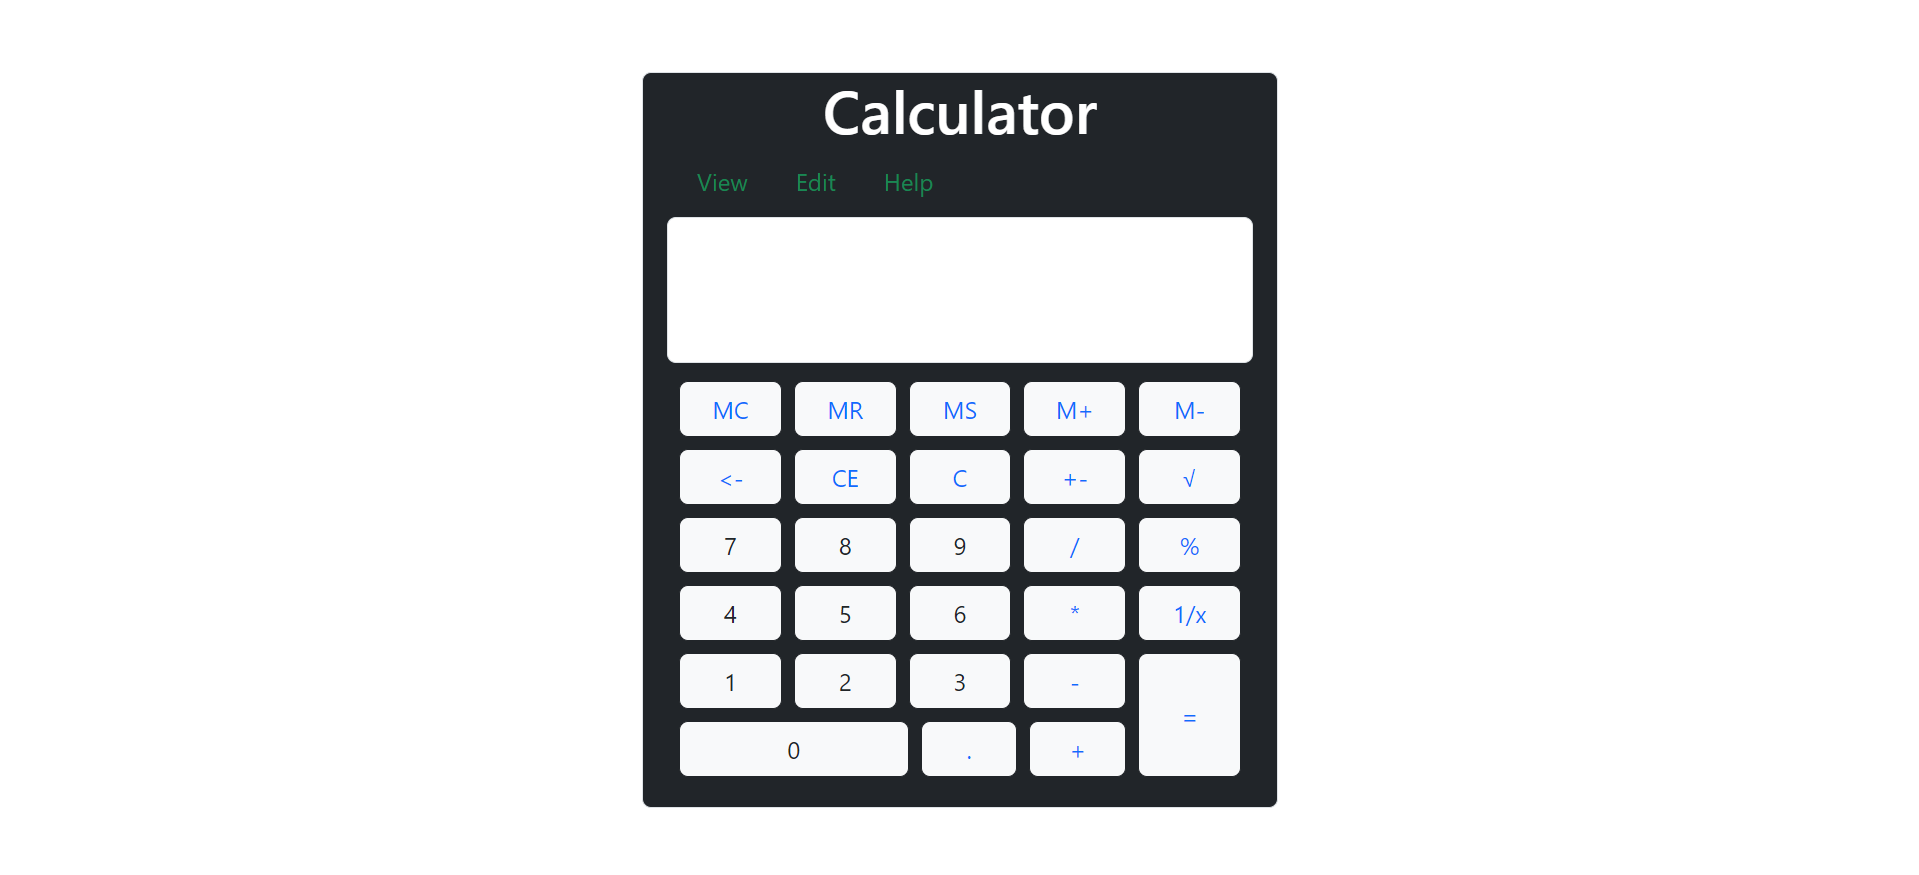
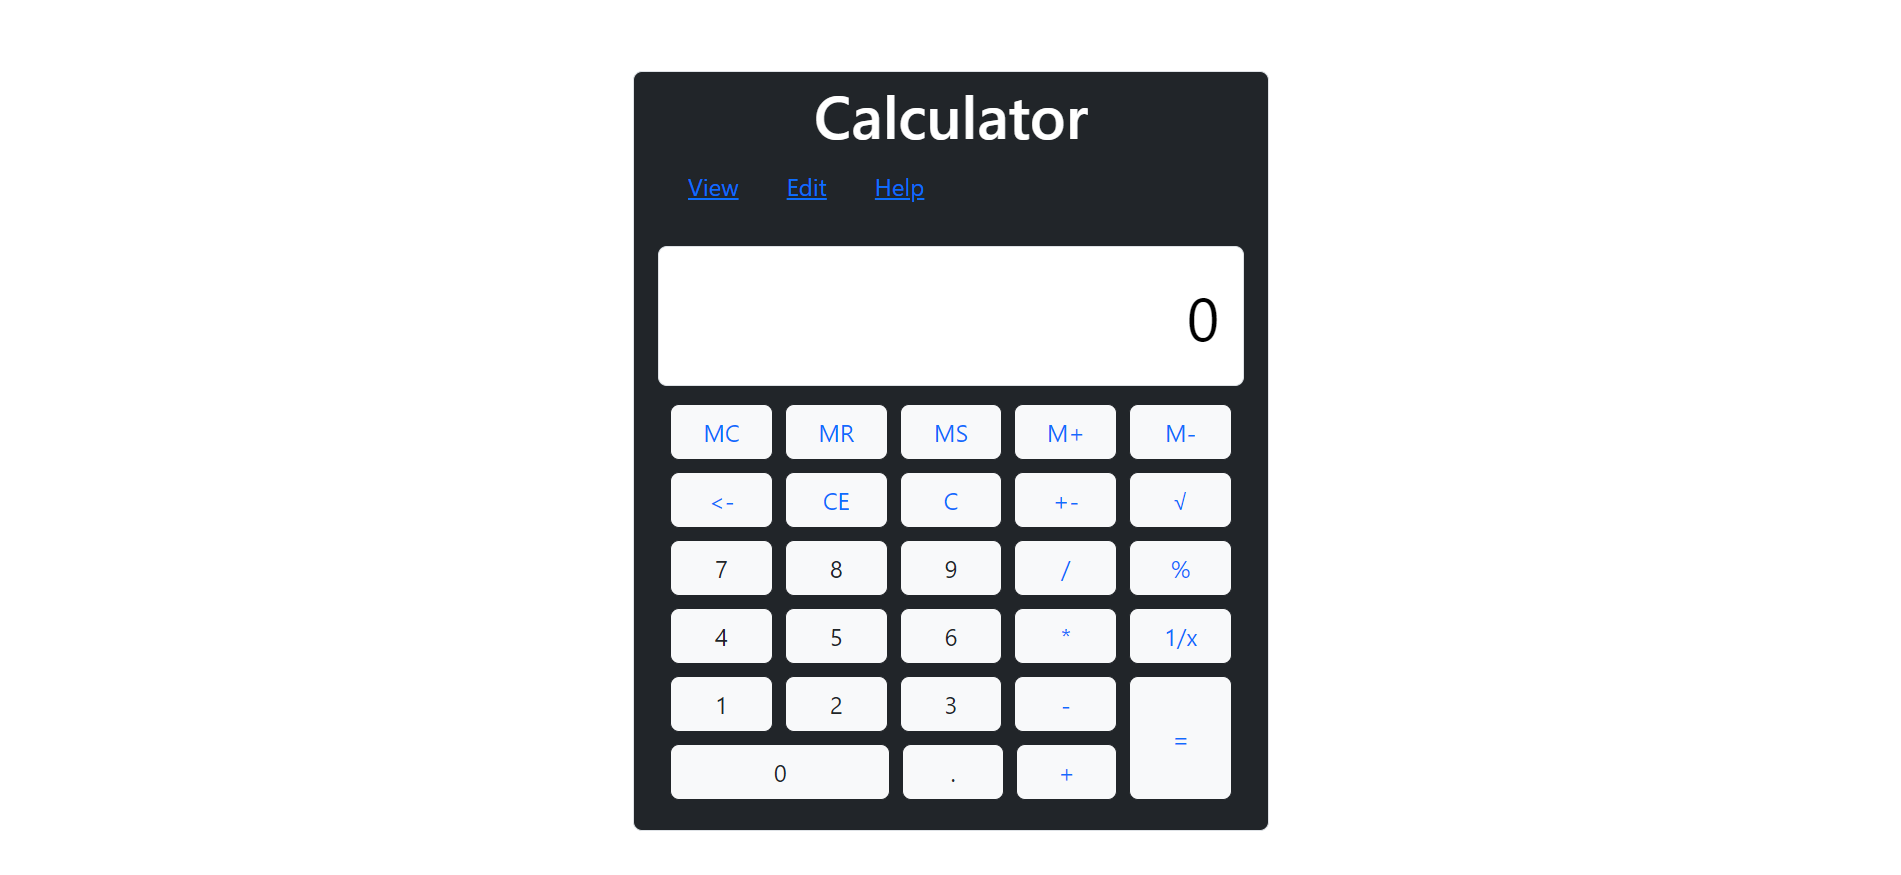
add Calc JS

Changed region(s): [[0.3104, 0.0926, 0.6828, 0.9566]]

diff --git a/Wavemaker Assignments/Assignment 3/index.html b/Wavemaker Assignments/Assignment 3/index.html
@@ -12,65 +12,65 @@
     <div class="mt-5 px-1 d-flex justify-content-center">
         <!-- <div class="col-md-4"></div> -->
         <div class="col-md-4">
-            <div class="p-3 pt-0 bg-dark border rounded">
-                <h1 class="display1 text-white text-center py-0">Calculator</h1>
-                <ul class="nav text-success p-1">
+            <div class="p-3 pt-1 bg-dark border rounded">
+                <h1 class="display1 text-end text-white text-center py-0">Calculator</h1>
+                <ul class="nav mb-3 p-1">
                     <li class="nav-item mx-3">
-                      View
+                      <a href="#">View</a>
                     </li>
                     <li class="nav-item mx-3">
-                      Edit
+                        <a href="#">Edit</a>
                     </li>
                     <li class="nav-item mx-3">
-                      Help
+                        <a href="#">Help</a>
                     </li>
                   </ul>
                 <!-- <input class="container bg-white my-2 p-5 border rounded" > -->
-                <input type="text" class="container bg-white my-2 p-5 border rounded">
+                <input type="text" id="display" class="container text-end text-5 fs-1 bg-white my-2 p-3 border rounded" value="0">
                 <div class="row mx-1">
-                    <div class="col-md m-1 p-0"><button class="btn text-primary w-100 m-0 btn-outline-dark bg-light">MC</button></div>
-                    <div class="col-md m-1 p-0"><button class="btn text-primary w-100 m-0 btn-outline-dark bg-light">MR</button></div>
-                    <div class="col-md m-1 p-0"><button class="btn text-primary w-100 m-0 btn-outline-dark bg-light">MS</button></div>
-                    <div class="col-md m-1 p-0"><button class="btn text-primary w-100 m-0 btn-outline-dark bg-light">M+</button></div>
-                    <div class="col-md m-1 p-0"><button class="btn text-primary w-100 m-0 btn-outline-dark bg-light">M-</button></div>
+                    <div class="col-md m-1 p-0"><button class="btn mc text-primary w-100 m-0 btn-outline-dark bg-light">MC</button></div>
+                    <div class="col-md m-1 p-0"><button class="btn mr text-primary w-100 m-0 btn-outline-dark bg-light">MR</button></div>
+                    <div class="col-md m-1 p-0"><button class="btn ms text-primary w-100 m-0 btn-outline-dark bg-light">MS</button></div>
+                    <div class="col-md m-1 p-0"><button class="btn mi text-primary w-100 m-0 btn-outline-dark bg-light">M+</button></div>
+                    <div class="col-md m-1 p-0"><button class="btn md text-primary w-100 m-0 btn-outline-dark bg-light">M-</button></div>
                 </div>
                 <div class="row mx-1">
-                    <div class="col-md m-1 p-0"><button class="btn text-primary w-100 m-0 btn-outline-dark bg-light"><-</button></div>
-                    <div class="col-md m-1 p-0"><button class="btn text-primary w-100 m-0 btn-outline-dark bg-light">CE</button></div>
-                    <div class="col-md m-1 p-0"><button class="btn text-primary w-100 m-0 btn-outline-dark bg-light">C</button></div>
+                    <div class="col-md m-1 p-0"><button class="btn bs text-primary w-100 m-0 btn-outline-dark bg-light"><-</button></div>
+                    <div class="col-md m-1 p-0"><button class="btn bs text-primary w-100 m-0 btn-outline-dark bg-light">CE</button></div>
+                    <div class="col-md m-1 p-0"><button class="btn clear text-primary w-100 m-0 btn-outline-dark bg-light">C</button></div>
                     <div class="col-md m-1 p-0"><button class="btn text-primary w-100 m-0 btn-outline-dark bg-light">+-</button></div>
-                    <div class="col-md m-1 p-0"><button class="btn text-primary w-100 m-0 btn-outline-dark bg-light">&#8730</button></div>
+                    <div class="col-md m-1 p-0"><button class="btn sqrt text-primary w-100 m-0 btn-outline-dark bg-light">&#8730</button></div>
                 </div>
                 <div class="row mx-1">
-                    <div class="col-md m-1 p-0"><button class="btn w-100 m-0 btn-outline-dark bg-light">7</button></div>
-                    <div class="col-md m-1 p-0"><button class="btn w-100 m-0 btn-outline-dark bg-light">8</button></div>
-                    <div class="col-md m-1 p-0"><button class="btn w-100 m-0 btn-outline-dark bg-light">9</button></div>
-                    <div class="col-md m-1 p-0"><button class="btn text-primary w-100 m-0 btn-outline-dark bg-light">/</button></div>
-                    <div class="col-md m-1 p-0"><button class="btn text-primary w-100 m-0 btn-outline-dark bg-light">%</button></div>
+                    <div class="col-md m-1 p-0"><button class="btn btn-num-op w-100 m-0 btn-outline-dark bg-light hover:bg-dark">7</button></div>
+                    <div class="col-md m-1 p-0"><button class="btn btn-num-op w-100 m-0 btn-outline-dark bg-light">8</button></div>
+                    <div class="col-md m-1 p-0"><button class="btn btn-num-op w-100 m-0 btn-outline-dark bg-light">9</button></div>
+                    <div class="col-md m-1 p-0"><button class="btn btn-num-op text-primary w-100 m-0 btn-outline-dark bg-light">/</button></div>
+                    <div class="col-md m-1 p-0"><button class="btn btn-num-op text-primary w-100 m-0 btn-outline-dark bg-light">%</button></div>
                 </div>
                 <div class="row mx-1">
-                    <div class="col-md m-1 p-0"><button class="btn w-100 m-0 btn-outline-dark bg-light">4</button></div>
-                    <div class="col-md m-1 p-0"><button class="btn w-100 m-0 btn-outline-dark bg-light">5</button></div>
-                    <div class="col-md m-1 p-0"><button class="btn w-100 m-0 btn-outline-dark bg-light">6</button></div>
-                    <div class="col-md m-1 p-0"><button class="btn text-primary w-100 m-0 btn-outline-dark bg-light">*</button></div>
-                    <div class="col-md m-1 p-0"><button class="btn text-primary w-100 m-0 btn-outline-dark bg-light">1/x</button></div>
+                    <div class="col-md m-1 p-0"><button class="btn btn-num-op w-100 m-0 btn-outline-dark bg-light">4</button></div>
+                    <div class="col-md m-1 p-0"><button class="btn btn-num-op w-100 m-0 btn-outline-dark bg-light">5</button></div>
+                    <div class="col-md m-1 p-0"><button class="btn btn-num-op w-100 m-0 btn-outline-dark bg-light">6</button></div>
+                    <div class="col-md m-1 p-0"><button class="btn btn-num-op text-primary w-100 m-0 btn-outline-dark bg-light">*</button></div>
+                    <div class="col-md m-1 p-0"><button class="btn reci text-primary w-100 m-0 btn-outline-dark bg-light">1/x</button></div>
                 </div>
                 <div class="row mx-1">
                     <div class="wid-80">
                         <div class="row">
-                            <div class="col-md m-1 p-0"><button class="btn w-100 m-0 btn-outline-dark bg-light">1</button></div>
-                            <div class="col-md m-1 p-0"><button class="btn w-100 m-0 btn-outline-dark bg-light">2</button></div>
-                            <div class="col-md m-1 p-0"><button class="btn w-100 m-0 btn-outline-dark bg-light">3</button></div>
-                            <div class="col-md m-1 p-0"><button class="btn text-primary w-100 m-0 btn-outline-dark bg-light">-</button></div>
+                            <div class="col-md m-1 p-0"><button class="btn btn-num-op w-100 m-0 btn-outline-dark bg-light">1</button></div>
+                            <div class="col-md m-1 p-0"><button class="btn btn-num-op w-100 m-0 btn-outline-dark bg-light">2</button></div>
+                            <div class="col-md m-1 p-0"><button class="btn btn-num-op w-100 m-0 btn-outline-dark bg-light">3</button></div>
+                            <div class="col-md m-1 p-0"><button class="btn btn-num-op text-primary w-100 m-0 btn-outline-dark bg-light">-</button></div>
                         </div>
                         <div class="row">
-                            <div class="col-md-6 w-98 m-1 p-0"><button class="btn w-100 btn-outline-dark bg-light">0</button></div>
-                            <div class="col-md m-1 p-0"><button class="btn text-primary w-100 btn-outline-dark bg-light">.</button></div>
-                            <div class="col-md m-1 p-0"><button class="btn text-primary w-100 btn-outline-dark bg-light">+</button></div>
+                            <div class="wid-48 m-1 p-0"><button class="btn btn-num-op w-100 btn-outline-dark bg-light">0</button></div>
+                            <div class="col-md m-1 p-0"><button class="btn btn-num-op w-100 btn-outline-dark bg-light">.</button></div>
+                            <div class="col-md m-1 p-0"><button class="btn btn-num-op text-primary w-100 btn-outline-dark bg-light">+</button></div>
                         </div>
                     </div>
                     <div class="wid-20 m-0 p-1">
-                        <div class="w-100 h-100"><button class="btn text-primary h-100 w-100 btn-outline-dark bg-light">=</button></div>
+                        <div class="w-100 h-100"><button class="btn equal text-primary h-100 w-100 btn-outline-dark bg-light">=</button></div>
                     </div>
                 </div>
                 <!-- <div class="row">
@@ -97,5 +97,6 @@
         </div>
         <!-- <div class="container-4"></div> -->
     </div>
+    <script src="script.js"></script>
 </body>
 </html>

diff --git a/Wavemaker Assignments/Assignment 3/script.js b/Wavemaker Assignments/Assignment 3/script.js
@@ -1,0 +1,115 @@
+let storage=0;
+const operators = ['+','-','/','*','%'];
+var op_exists=false;
+
+const display=document.getElementById('display');
+const btns=document.querySelectorAll('.btn-num-op');
+const backspace=document.querySelectorAll('.bs');
+const clear=document.querySelector(".clear");
+const reci=document.querySelector(".reci");
+const sqrt=document.querySelector(".sqrt");
+const memoryclear=document.querySelector(".mc");
+const memoryretriev=document.querySelector(".mr");
+const memorystore=document.querySelector(".ms");
+const memoryinc=document.querySelector(".mi");
+const memorydec=document.querySelector(".md");
+const equal=document.querySelector(".equal");
+
+
+
+clear.addEventListener('click', clearScreen);
+reci.addEventListener('click', reciprocate);
+sqrt.addEventListener('click', squareRoot);
+memoryclear.addEventListener('click', memoClear);
+memoryretriev.addEventListener('click', memoRetrive);
+memorystore.addEventListener('click', memoStore);
+memoryinc.addEventListener('click', memoInc);
+memorydec.addEventListener('click', memoDec);
+equal.addEventListener('click', evaluate);
+
+
+btns.forEach(btn => {
+    btn.addEventListener('click', insert);   
+});
+
+backspace.forEach(btn => {
+    btn.addEventListener('click', backSpace);   
+});
+
+function insert(){
+    const cur_val=this.innerHTML;
+    if(display.value=='0'){
+        display.value=null;
+        if(cur_val == '+' || cur_val == '-'){
+            display.value+=cur_val;
+            return;
+        }
+    }
+    const prev_val=display.value[(display.value).length-1];
+    if(operators.includes(cur_val)){
+        if(!op_exists){
+            op_exists=true;
+            display.value+=cur_val;
+        }
+        else if((operators.includes(prev_val)) && (prev_val!=cur_val) && (cur_val=='+' || cur_val=='-')){
+            display.value+=cur_val;
+        }
+        else alert("Only one operator allowed at a time");
+    }
+    else display.value+=cur_val;
+};
+
+function clearScreen(){
+    op_exists=false;
+    display.value=0;
+}
+
+function backSpace(){
+    if(operators.includes(display.value[(display.value).length - 1])) op_exists=false;
+    display.value=display.value.slice(0,-1);
+    if((display.value).length == 0) display.value=0;
+}
+
+function memoStore(){
+    if(op_exists) alert("Can't store with operator");
+    else{
+        storage=Number(display.value);
+        display.value=0;
+    }
+}
+
+function memoRetrive(){
+    if(storage == null) alert("No value in Memory");
+    else display.value=storage;
+}
+
+function memoClear(){
+    storage=null;
+}
+
+function memoInc(){
+    if(op_exists) alert("Can't store with operator");
+    else{
+        storage+=Number(display.value);
+        display.value=0;
+    }
+}
+
+function memoDec(){
+    storage-=Number(display.value);
+    display.value=0;
+}
+
+function reciprocate(){
+    display.value=Math.round((1/display.value)*100)/100;
+}
+
+function squareRoot(){
+    if(display.value<0) alert("Can't Square root negative number")
+    display.value=Math.round(Math.sqrt(display.value)*100)/100;
+}
+
+function evaluate(){
+    display.value=Math.round(eval(display.value)*100)/100;
+    op_exists=false;
+}

diff --git a/Wavemaker Assignments/Assignment 3/styles.css b/Wavemaker Assignments/Assignment 3/styles.css
@@ -5,3 +5,7 @@
 .wid-20{
     width: 20%;
 }
+
+.wid-48{
+    width: 48%;
+}
